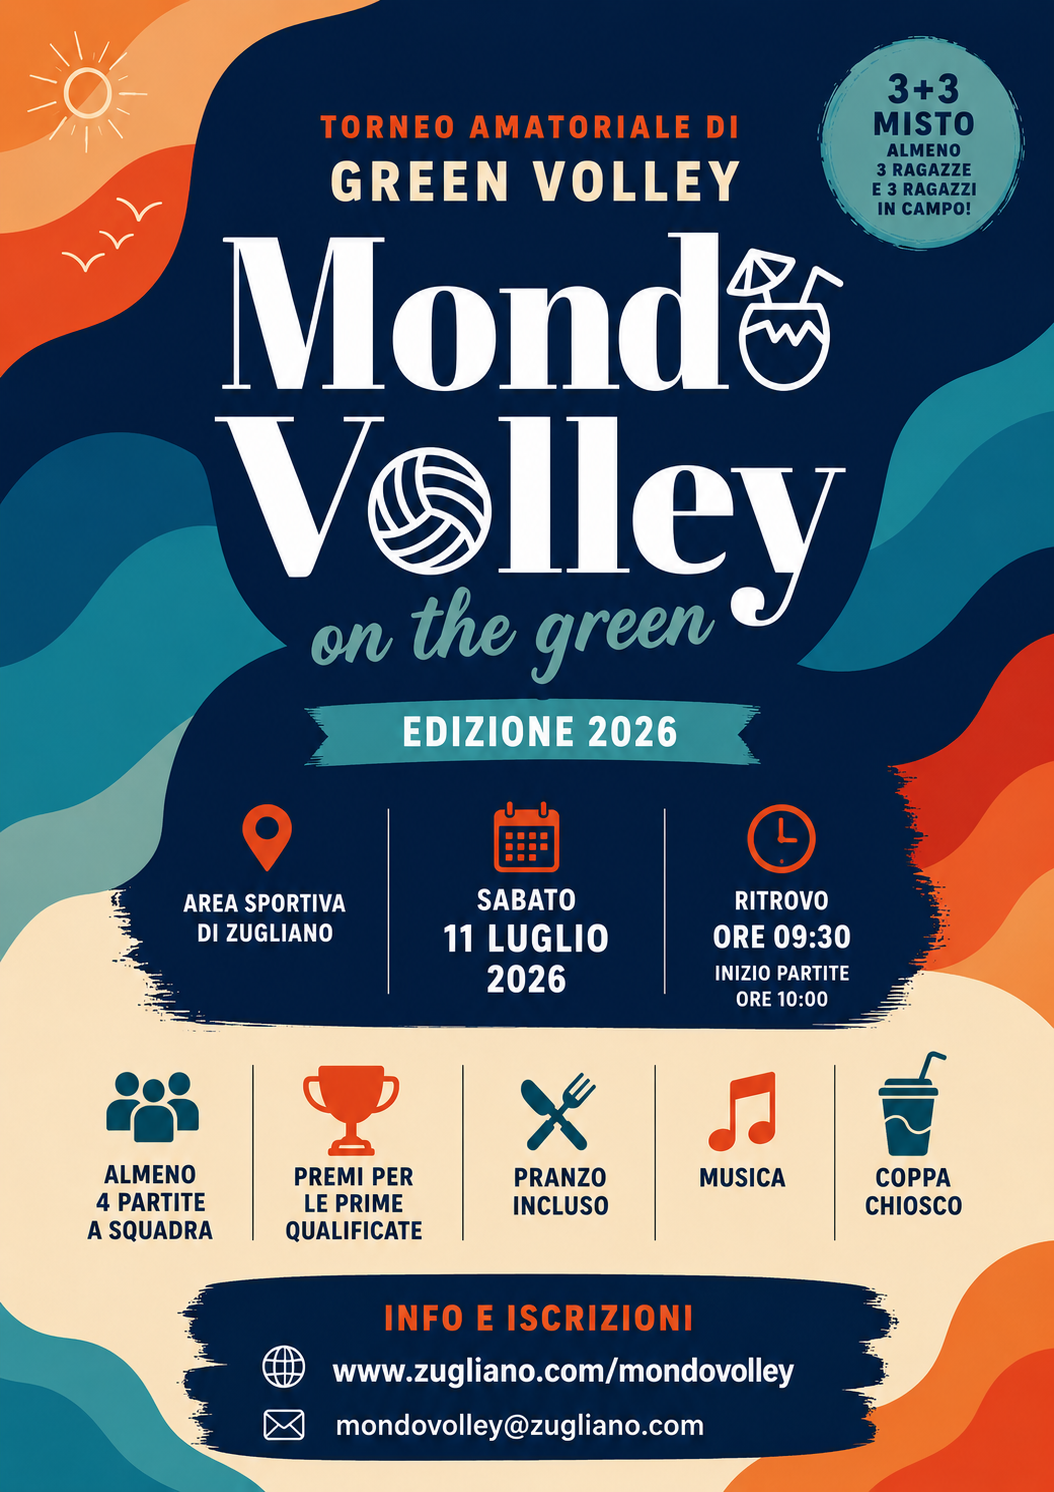
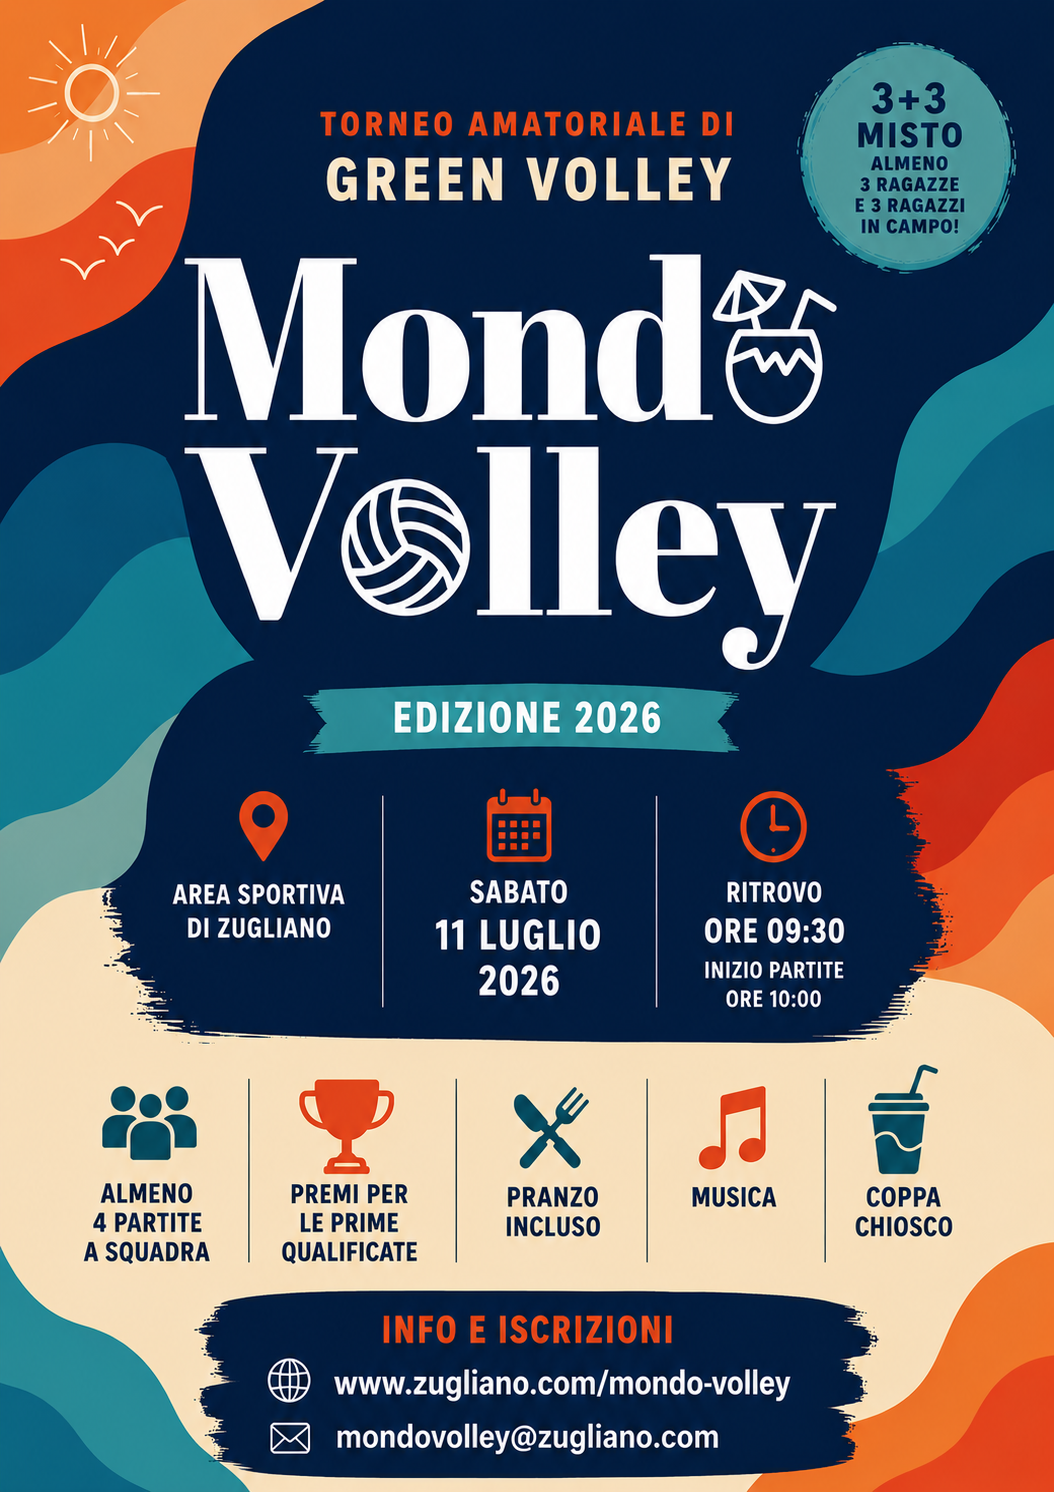
images

diff --git a/src/styles/global.css b/src/styles/global.css
@@ -110,6 +110,8 @@ p:last-child { margin-bottom: 0; }
   transition: transform 0.2s, box-shadow 0.2s;
   display: flex;
   flex-direction: column;
+  align-items: center;
+  text-align: center;
 }
 
 .card:hover {
